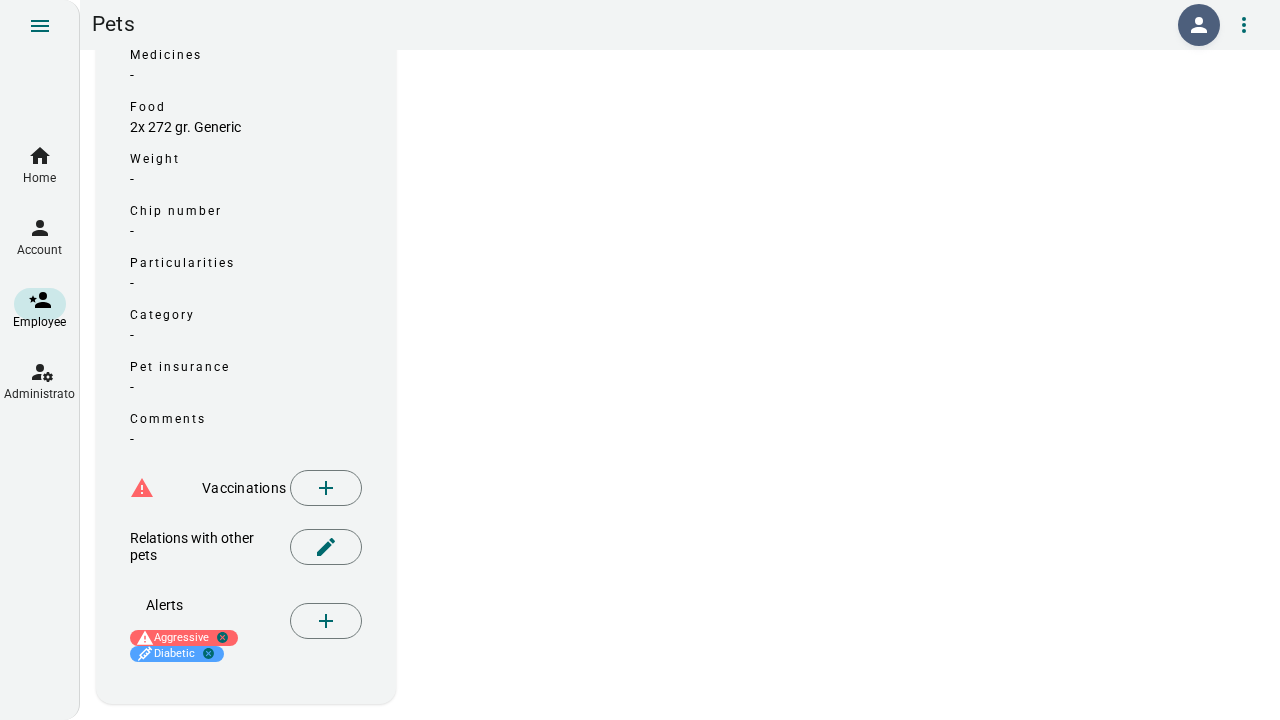
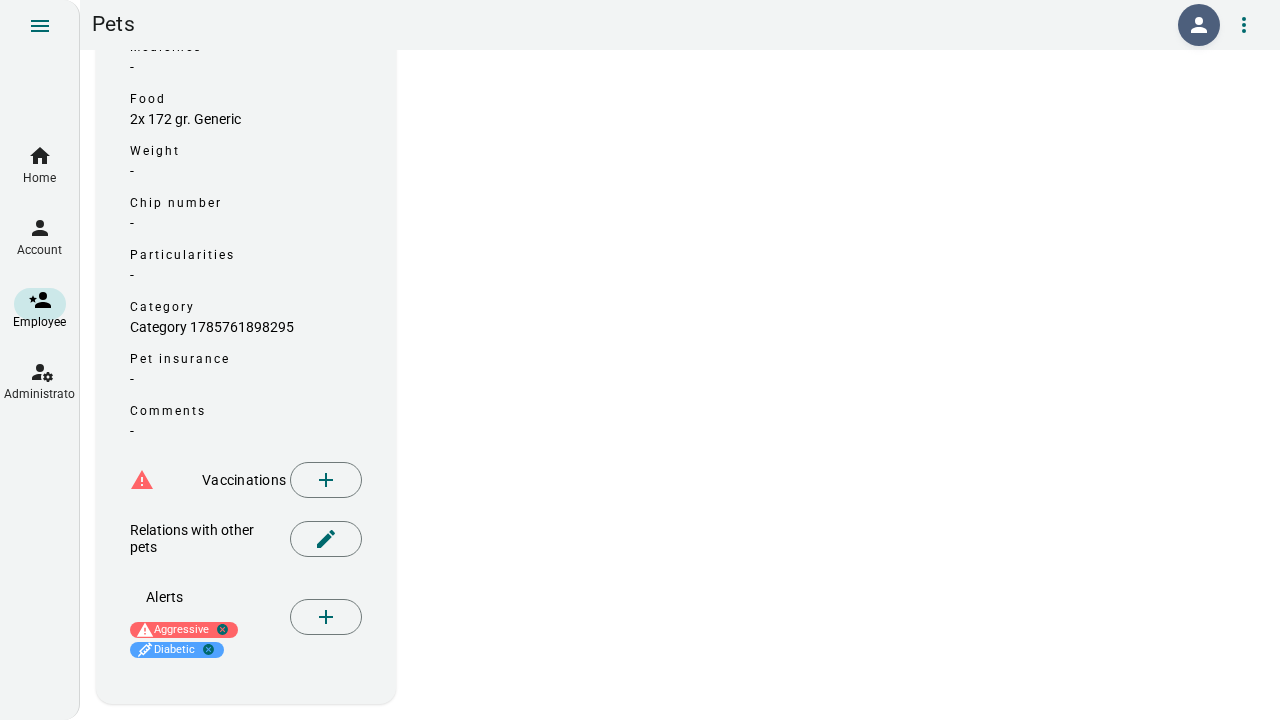
refactor: use PET_ALERT_CONDITIONS enum for pet alert conditions
Add the PET_ALERT_CONDITIONS enum in tools constants (inHeat, needsRest,
aggressive, diabetic) and use it wherever alert conditions are typed or
validated: kysely and repository PetAlert interfaces, zod nativeEnum input
schemas (createAlert, pet input), app mutations, the test seed and the
PetAlertsForm default. AGENTS.md now documents using the enum instead of a
plain string whenever appropriate.

diff --git a/packages/tools/src/constants/index.ts b/packages/tools/src/constants/index.ts
@@ -34,11 +34,18 @@ export const VACCINATION_TYPES = {
 
 export const PET_SPECIES = ['dog', 'cat'] as const
 
+export enum PET_ALERT_CONDITIONS {
+  IN_HEAT = 'inHeat',
+  NEEDS_REST = 'needsRest',
+  AGGRESSIVE = 'aggressive',
+  DIABETIC = 'diabetic'
+}
+
 export const PET_ALERTS = [
-  { value: 'inHeat', label: 'pet.alerts.inHeat', icon: 'i-mdi-paw', color: 'pink' },
-  { value: 'needsRest', label: 'pet.alerts.needsRest', icon: 'i-mdi-bed', color: 'yellow' },
-  { value: 'aggressive', label: 'pet.alerts.aggressive', icon: 'i-mdi-alert', color: 'red' },
-  { value: 'diabetic', label: 'pet.alerts.diabetic', icon: 'i-mdi-needle', color: 'blue' }
+  { value: PET_ALERT_CONDITIONS.IN_HEAT, label: 'pet.alerts.inHeat', icon: 'i-mdi-paw', color: 'pink' },
+  { value: PET_ALERT_CONDITIONS.NEEDS_REST, label: 'pet.alerts.needsRest', icon: 'i-mdi-bed', color: 'yellow' },
+  { value: PET_ALERT_CONDITIONS.AGGRESSIVE, label: 'pet.alerts.aggressive', icon: 'i-mdi-alert', color: 'red' },
+  { value: PET_ALERT_CONDITIONS.DIABETIC, label: 'pet.alerts.diabetic', icon: 'i-mdi-needle', color: 'blue' }
 ] as const
 
 export enum PETBOARDING_ACCOUNT_ROLES {

diff --git a/packages/api/src/repositories/pet.ts b/packages/api/src/repositories/pet.ts
@@ -1,7 +1,8 @@
-import { Database, db } from '../kysely/index.js'
+import { type Database, db } from '../kysely/index.js'
 import { jsonArrayFrom, jsonObjectFrom } from 'kysely/helpers/postgres'
 import { convertImageSql } from './index.js'
 import type { Pets } from '../kysely/types.ts'
+import type { PET_ALERT_CONDITIONS } from '@petboarding/tools/constants'
 import { config } from '../env.js'
 import {
   type Insertable,
@@ -10,7 +11,7 @@ import {
   type ExpressionBuilder,
   sql
 } from 'kysely'
-import { Vaccination } from '../zod/index.js'
+import type { Vaccination } from '../zod/index.js'
 import { subYears } from 'date-fns'
 export type Pet = Selectable<Pets>
 type NewPet = Insertable<Pets>
@@ -26,7 +27,7 @@ export interface ParsedPet extends Omit<Pet, 'image'> {
 
 export interface PetAlert {
   id?: number
-  condition: string
+  condition: PET_ALERT_CONDITIONS
   startDate: string | null
   endDate: string | null
 }

diff --git a/packages/app/src/configuration.ts b/packages/app/src/configuration.ts
@@ -2,9 +2,13 @@ import { ref } from 'vue'
 import { Loading, Notify } from 'quasar'
 import { useLang } from './lang/index.js'
 import type { Pet } from '@petboarding/api/zod'
-import { PET_SPECIES, PET_ALERTS } from '@petboarding/tools/constants'
-import { QuasarTheme } from 'unocss-preset-quasar/theme'
-import { Locales } from '@simsustech/quasar-components/form'
+import {
+  type PET_SPECIES,
+  PET_ALERTS,
+  type PET_ALERT_CONDITIONS
+} from '@petboarding/tools/constants'
+import type { QuasarTheme } from 'unocss-preset-quasar/theme'
+import type { Locales } from '@simsustech/quasar-components/form'
 
 const lang = useLang()
 
@@ -23,7 +27,7 @@ export type PetKennel = Pick<Pet, 'id' | 'name' | 'food' | 'medicines'> & {
 
 export interface PetAlert {
   id?: number
-  condition: string
+  condition: PET_ALERT_CONDITIONS
   startDate: string | null
   endDate: string | null
 }

diff --git a/packages/app/src/mutations/employee/pet.ts b/packages/app/src/mutations/employee/pet.ts
@@ -1,6 +1,7 @@
 import type { Pet } from '@petboarding/api/zod'
 import { useMutation } from '@pinia/colada'
 import { trpc } from '../../trpc.js'
+import type { PET_ALERT_CONDITIONS } from '@petboarding/tools/constants'
 
 export const useEmployeeUpdatePetMutation = () => {
   const { ...rest } = useMutation({
@@ -37,7 +38,7 @@ export const useEmployeeCreateAlert = () => {
       endDate
     }: {
       petId: number
-      condition: string
+      condition: PET_ALERT_CONDITIONS
       startDate?: string | null
       endDate?: string | null
     }) =>
@@ -57,7 +58,7 @@ export const useEmployeeUpdateAlert = () => {
       endDate
     }: {
       id: number
-      condition: string
+      condition: PET_ALERT_CONDITIONS
       startDate?: string | null
       endDate?: string | null
     }) =>

diff --git a/packages/api/src/trpc/employee/pets.ts b/packages/api/src/trpc/employee/pets.ts
@@ -2,7 +2,10 @@ import { TRPCError } from '@trpc/server'
 import type { t } from '../index.js'
 import * as z from 'zod'
 import { pet } from '../../zod/pet.js'
-import { VACCINATION_IMAGE_SIZE } from '@petboarding/tools/constants'
+import {
+  PET_ALERT_CONDITIONS,
+  VACCINATION_IMAGE_SIZE
+} from '@petboarding/tools/constants'
 import { vaccination } from '../../zod/vaccination.js'
 import sharp from 'sharp'
 import { subYears } from 'date-fns'
@@ -267,7 +270,7 @@ export const employeePetRoutes = ({
     .input(
       z.object({
         petId: z.number(),
-        condition: z.string(),
+        condition: z.nativeEnum(PET_ALERT_CONDITIONS),
         startDate: z.string().nullable().optional(),
         endDate: z.string().nullable().optional()
       })

diff --git a/packages/api/src/kysely/seeds/test.ts b/packages/api/src/kysely/seeds/test.ts
@@ -8,6 +8,7 @@ import {
   CUSTOMER_DAYCARE_SUBSCRIPTION_STATUS,
   OPENING_TIME_TYPE,
   PERIOD_TYPE,
+  PET_ALERT_CONDITIONS,
   SERVICE_TYPE
 } from '@petboarding/tools/constants'
 import { getRandomInt } from './fake/index.js'
@@ -69,11 +70,16 @@ const seed = async () => {
   const petAlerts = [
     {
       petId: 2,
-      condition: 'aggressive',
+      condition: PET_ALERT_CONDITIONS.AGGRESSIVE,
       startDate: '2024-01-05',
       endDate: '2024-01-12'
     },
-    { petId: 2, condition: 'diabetic', startDate: null, endDate: null }
+    {
+      petId: 2,
+      condition: PET_ALERT_CONDITIONS.DIABETIC,
+      startDate: null,
+      endDate: null
+    }
   ]
 
   const bookings = [1, 2, 3, 4, 5].map((nr) => ({

diff --git a/packages/app/src/components/pet/PetAlertsForm.vue b/packages/app/src/components/pet/PetAlertsForm.vue
@@ -47,7 +47,7 @@
 <script setup lang="ts">
 import { computed, reactive, ref } from 'vue'
 import { useLang } from '../../lang/index.js'
-import { PET_ALERTS } from '@petboarding/tools/constants'
+import { PET_ALERTS, PET_ALERT_CONDITIONS } from '@petboarding/tools/constants'
 import { DateInput } from '@simsustech/quasar-components/form'
 import type { PetAlert } from '../../configuration.js'
 
@@ -56,7 +56,11 @@ interface Props {
 }
 
 const props = withDefaults(defineProps<Props>(), {
-  modelValue: () => ({ condition: '', startDate: null, endDate: null })
+  modelValue: () => ({
+    condition: PET_ALERT_CONDITIONS.IN_HEAT,
+    startDate: null,
+    endDate: null
+  })
 })
 
 const emit = defineEmits<{

diff --git a/packages/api/src/kysely/types.ts b/packages/api/src/kysely/types.ts
@@ -4,13 +4,14 @@ import type {
   OidcPayloadsTable,
   AuthenticationMethodsTable
 } from '@modular-api/fastify-oidc/kysely'
-import {
+import type {
   BOOKING_STATUS,
   DAYCARE_DATE_STATUS,
   OPENING_TIME_TYPE,
   PERIOD_TYPE,
   SERVICE_TYPE,
-  CUSTOMER_DAYCARE_SUBSCRIPTION_STATUS
+  CUSTOMER_DAYCARE_SUBSCRIPTION_STATUS,
+  PET_ALERT_CONDITIONS
 } from '@petboarding/tools/constants'
 
 export type Generated<T> =
@@ -293,7 +294,7 @@ export interface PetRelations {
 export interface PetAlerts {
   id: Generated<number>
   petId: number
-  condition: string
+  condition: PET_ALERT_CONDITIONS
   startDate: string | null
   endDate: string | null
   createdAt: Generated<string>

diff --git a/packages/api/src/zod/pet.ts b/packages/api/src/zod/pet.ts
@@ -1,7 +1,7 @@
 import * as z from 'zod'
 import { customer } from './customer.js'
 import { vaccination } from './vaccination.js'
-import { PET_SPECIES } from '@petboarding/tools/constants'
+import { PET_SPECIES, PET_ALERT_CONDITIONS } from '@petboarding/tools/constants'
 
 export const PET_IMAGE_SIZE = {
   width: 1024,
@@ -51,7 +51,7 @@ export const petValidation = {
   alerts: z
     .array(
       z.object({
-        condition: z.string(),
+        condition: z.nativeEnum(PET_ALERT_CONDITIONS),
         startDate: z.string().nullable().optional(),
         endDate: z.string().nullable().optional()
       })

diff --git a/.pi/changes/2026-08-03-pet-alert-conditions-enum.md b/.pi/changes/2026-08-03-pet-alert-conditions-enum.md
@@ -1,0 +1,28 @@
+# Changes: PET_ALERT_CONDITIONS enum replaces string (2026-08-03)
+
+## New files
+
+| File | Description |
+|------|-------------|
+| — | — |
+
+## Modified files (all hunks accepted)
+
+| File | Lines | Description |
+| ------ | ------- | ------------- |
+| packages/tools/src/constants/index.ts | +7 | Add `PET_ALERT_CONDITIONS` enum (`inHeat`, `needsRest`, `aggressive`, `diabetic`); `PET_ALERTS` values now reference enum members |
+| packages/api/src/kysely/types.ts | import, condition | `PetAlerts.condition: string` → `PET_ALERT_CONDITIONS` |
+| packages/api/src/repositories/pet.ts | import, PetAlert | `PetAlert.condition: string` → `PET_ALERT_CONDITIONS` |
+| packages/api/src/trpc/employee/pets.ts | import, createAlert | zod `condition: z.string()` → `z.nativeEnum(PET_ALERT_CONDITIONS)` |
+| packages/api/src/zod/pet.ts | import, alerts | zod `condition: z.string()` → `z.nativeEnum(PET_ALERT_CONDITIONS)` (input schema only — no output validation, so legacy DB values still pass through) |
+| packages/api/src/kysely/seeds/test.ts | import, petAlerts | seed uses `PET_ALERT_CONDITIONS.AGGRESSIVE` / `.DIABETIC` |
+| packages/app/src/configuration.ts | import, PetAlert | `PetAlert.condition: string` → `PET_ALERT_CONDITIONS` |
+| packages/app/src/mutations/employee/pet.ts | import, 2× | alert mutation inputs use `PET_ALERT_CONDITIONS` |
+| packages/app/src/components/pet/PetAlertsForm.vue | import, default | form default `condition: ''` → `PET_ALERT_CONDITIONS.IN_HEAT` (enum requires a valid member) |
+| packages/docs/public/screenshots/employee-pet-alerts.png | — | regenerated by the screenshots e2e |
+| AGENTS.md | +4 | Note: use `PET_ALERT_CONDITIONS` instead of `string` whenever typing/validating alert conditions |
+
+## Verification
+
+- `pnpm run build:tools` + `pnpm run build` ok; lint warnings only; format clean
+- Unit tests 66 passed; e2e default 45 passed / 2 skipped (fresh DB); features 4 passed; screenshots 1 passed

diff --git a/AGENTS.md b/AGENTS.md
@@ -148,3 +148,7 @@ const locale = await Promise.any(
 ```
 
 This tries: full code → short 2-letter code → hardcoded `en-US` fallback.
+
+### Pet alert conditions: use `PET_ALERT_CONDITIONS`, not `string`
+
+Pet alert conditions are a closed set (`inHeat`, `needsRest`, `aggressive`, `diabetic`), defined as the `PET_ALERT_CONDITIONS` enum in `packages/tools/src/constants/index.ts` (values drive `PET_ALERTS`, colors, icons and the i18n keys). Whenever you type or validate an alert condition — interfaces, zod schemas (`z.nativeEnum(PET_ALERT_CONDITIONS)`), mutations, seeds, form defaults — use the enum instead of `string` so new/renamed conditions are caught at compile time.
